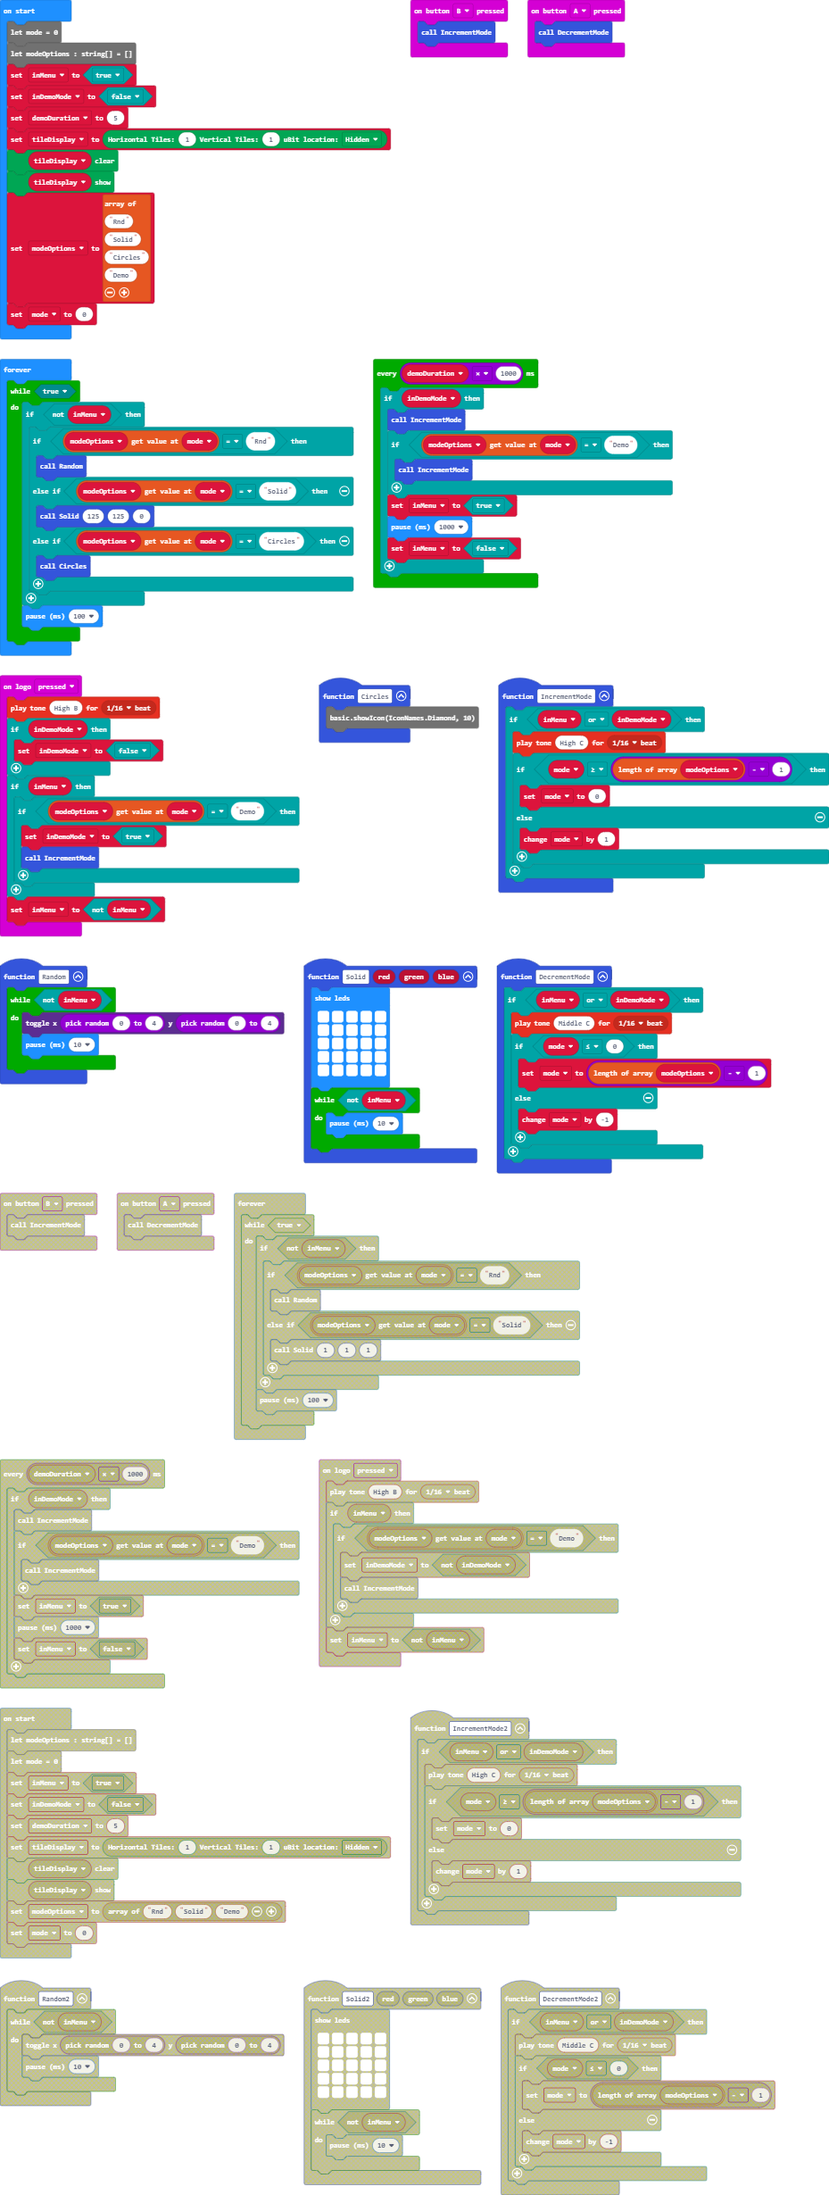
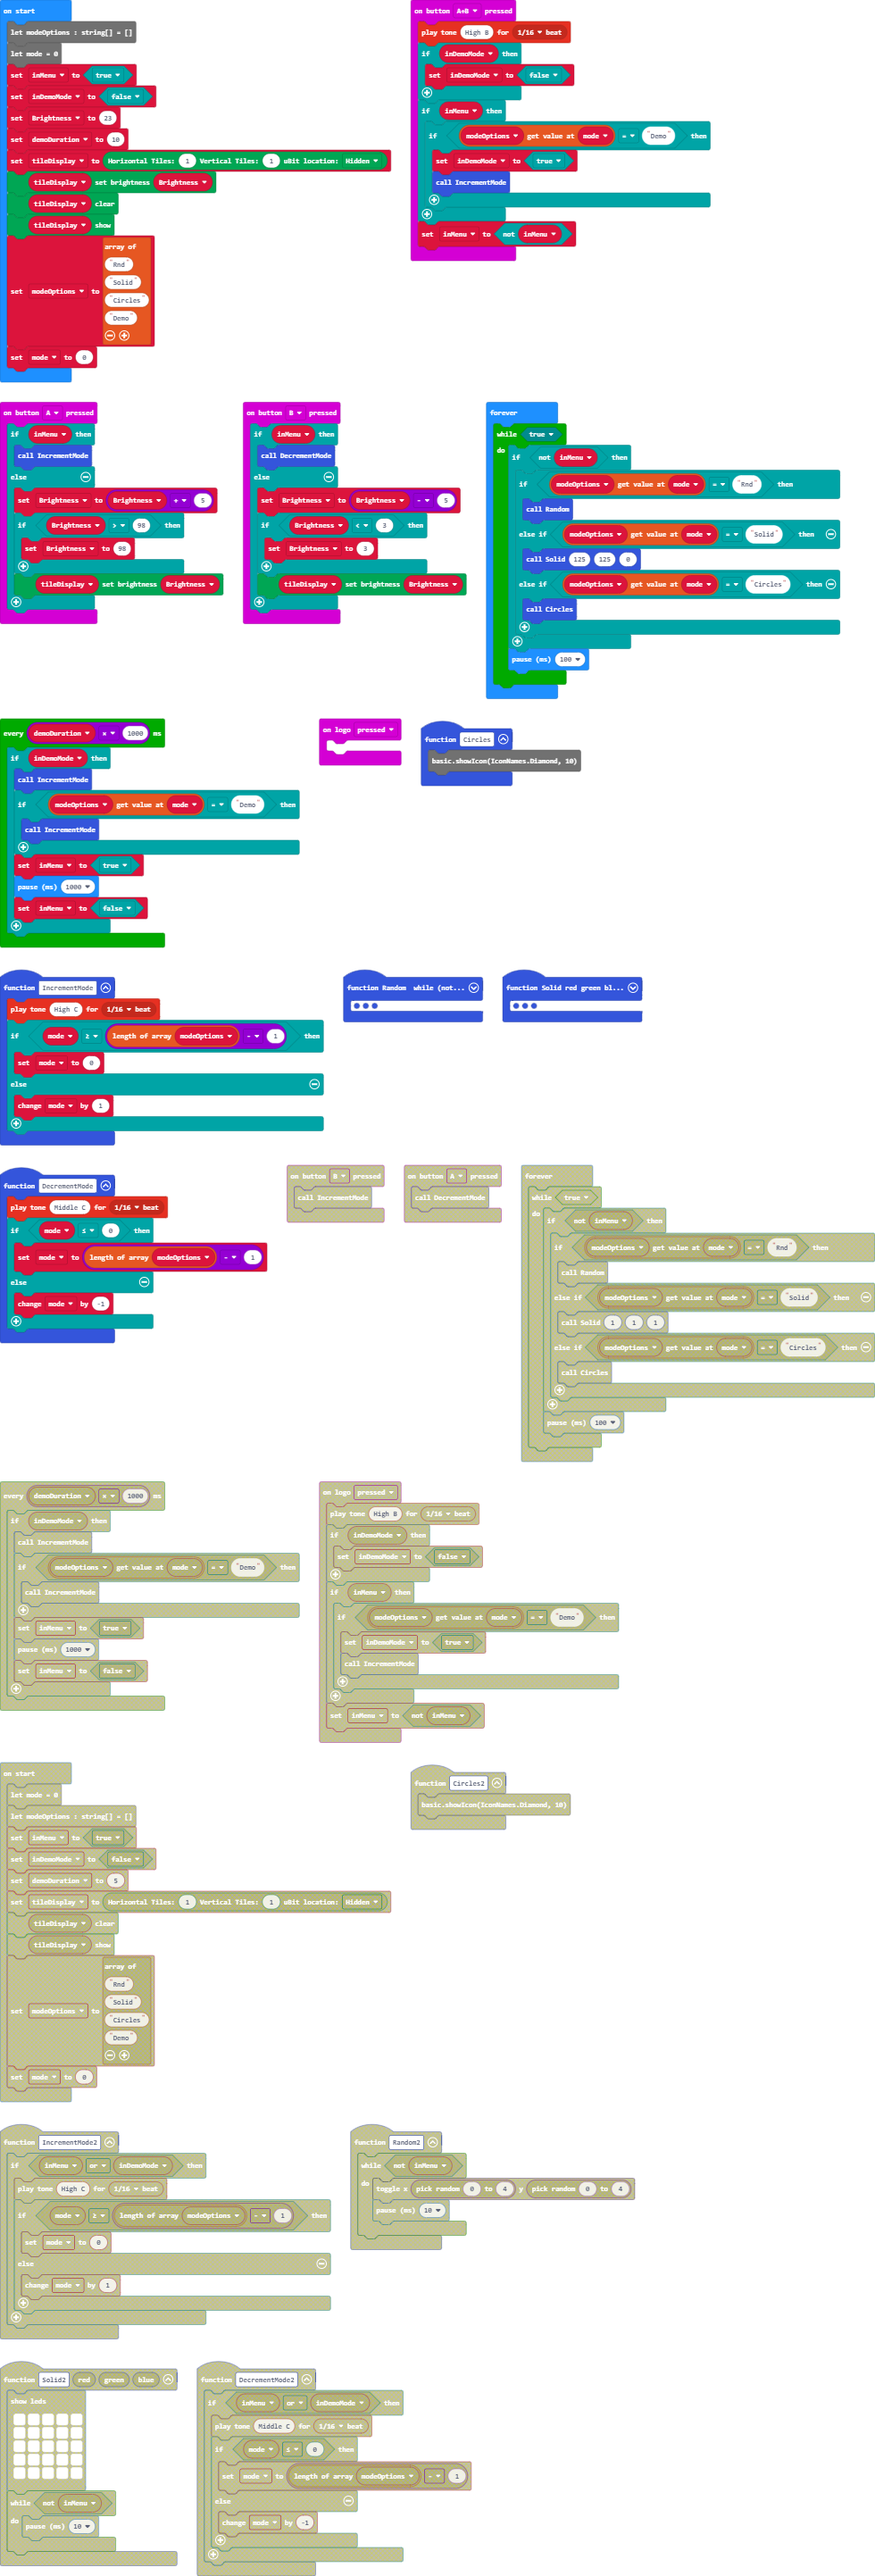
Added some fun random colours to the tile

diff --git a/main.ts b/main.ts
@@ -1,41 +1,34 @@
 function Random () {
     while (!(inMenu)) {
         led.toggle(randint(0, 4), randint(0, 4))
-        basic.pause(10)
+        tileDisplay.setMatrixColor(randint(0, 7), randint(0, 7), Kitronik_Zip_Tile.rgb(randint(5, 255), randint(5, 255), randint(5, 255)))
+        tileDisplay.show()
+        basic.pause(5)
     }
 }
 function Circles () {
     basic.showIcon(IconNames.Diamond, 10)
 }
 function IncrementMode () {
-    if (inMenu || inDemoMode) {
-        music.playTone(523, music.beat(BeatFraction.Sixteenth))
-        if (mode >= modeOptions.length - 1) {
-            mode = 0
-        } else {
-            mode += 1
-        }
+    music.playTone(523, music.beat(BeatFraction.Sixteenth))
+    if (mode >= modeOptions.length - 1) {
+        mode = 0
+    } else {
+        mode += 1
     }
 }
 input.onButtonPressed(Button.A, function () {
-    DecrementMode()
-})
-input.onButtonPressed(Button.B, function () {
-    IncrementMode()
-})
-function Solid (red: number, green: number, blue: number) {
-    basic.showLeds(`
-        # # # # #
-        # # # # #
-        # # # # #
-        # # # # #
-        # # # # #
-        `)
-    while (!(inMenu)) {
-        basic.pause(10)
+    if (inMenu) {
+        IncrementMode()
+    } else {
+        Brightness = Brightness + 5
+        if (Brightness > 98) {
+            Brightness = 98
+        }
+        tileDisplay.setBrightness(Brightness)
     }
-}
-input.onLogoEvent(TouchButtonEvent.Pressed, function () {
+})
+input.onButtonPressed(Button.AB, function () {
     music.playTone(988, music.beat(BeatFraction.Sixteenth))
     if (inDemoMode) {
         inDemoMode = false
@@ -48,24 +41,55 @@ input.onLogoEvent(TouchButtonEvent.Pressed, function () {
     }
     inMenu = !(inMenu)
 })
-function DecrementMode () {
-    if (inMenu || inDemoMode) {
-        music.playTone(262, music.beat(BeatFraction.Sixteenth))
-        if (mode <= 0) {
-            mode = modeOptions.length - 1
-        } else {
-            mode += -1
+input.onButtonPressed(Button.B, function () {
+    if (inMenu) {
+        DecrementMode()
+    } else {
+        Brightness = Brightness - 5
+        if (Brightness < 3) {
+            Brightness = 3
         }
+        tileDisplay.setBrightness(Brightness)
+    }
+})
+function Solid (red: number, green: number, blue: number) {
+    basic.showLeds(`
+        # # # # #
+        # # # # #
+        # # # # #
+        # # # # #
+        # # # # #
+        `)
+    while (!(inMenu)) {
+        split = randint(1, 360)
+        tileDisplay.showRainbow(randint(1, split), randint(split, 360))
+        basic.pause(200)
     }
 }
+input.onLogoEvent(TouchButtonEvent.Pressed, function () {
+	
+})
+function DecrementMode () {
+    music.playTone(262, music.beat(BeatFraction.Sixteenth))
+    if (mode <= 0) {
+        mode = modeOptions.length - 1
+    } else {
+        mode += -1
+    }
+}
+let split = 0
+let tileDisplay: Kitronik_Zip_Tile.ZIPTileDisplay = null
+let Brightness = 0
 let inDemoMode = false
 let inMenu = false
-let mode = 0
 let modeOptions : string[] = []
+let mode = 0
 inMenu = true
 inDemoMode = false
-let demoDuration = 5
-let tileDisplay = Kitronik_Zip_Tile.createZIPTileDisplay(1, 1, Kitronik_Zip_Tile.UBitLocations.Hidden)
+Brightness = 23
+let demoDuration = 10
+tileDisplay = Kitronik_Zip_Tile.createZIPTileDisplay(1, 1, Kitronik_Zip_Tile.UBitLocations.Hidden)
+tileDisplay.setBrightness(Brightness)
 tileDisplay.clear()
 tileDisplay.show()
 modeOptions = [

diff --git a/main.py b/main.py
@@ -1,9 +1,13 @@
 def Random():
     while not (inMenu):
         led.toggle(randint(0, 4), randint(0, 4))
-        basic.pause(10)
+        tileDisplay.set_matrix_color(randint(0, 7),
+            randint(0, 7),
+            Kitronik_Zip_Tile.rgb(randint(5, 255), randint(5, 255), randint(5, 255)))
+        tileDisplay.show()
+        basic.pause(200)
 def Circles():
-    basic.show_icon(IconNames.DIAMOND,10)
+    basic.show_icon(IconNames.DIAMOND, 10)
 def IncrementMode():
     global mode
     if inMenu or inDemoMode:
@@ -29,15 +33,18 @@ def Solid(red: number, green: number, blue: number):
                 # # # # #
                 # # # # #
     """)
+    tileDisplay.show_rainbow(1, 360)
     while not (inMenu):
-        basic.pause(10)
+        basic.pause(50)
 
 def on_logo_pressed():
     global inDemoMode, inMenu
     music.play_tone(988, music.beat(BeatFraction.SIXTEENTH))
+    if inDemoMode:
+        inDemoMode = False
     if inMenu:
         if modeOptions[mode] == "Demo":
-            inDemoMode = not (inDemoMode)
+            inDemoMode = True
             IncrementMode()
     inMenu = not (inMenu)
 input.on_logo_event(TouchButtonEvent.PRESSED, on_logo_pressed)
@@ -50,6 +57,7 @@ def DecrementMode():
             mode = len(modeOptions) - 1
         else:
             mode += -1
+tileDisplay: Kitronik_Zip_Tile.ZIPTileDisplay = None
 inDemoMode = False
 inMenu = False
 modeOptions: List[str] = []
@@ -58,9 +66,10 @@ inMenu = True
 inDemoMode = False
 demoDuration = 5
 tileDisplay = Kitronik_Zip_Tile.create_zip_tile_display(1, 1, Kitronik_Zip_Tile.UBitLocations.HIDDEN)
+tileDisplay.set_brightness(20)
 tileDisplay.clear()
 tileDisplay.show()
-modeOptions = ["Rnd", "Solid", "Demo"]
+modeOptions = ["Rnd", "Solid", "Circles", "Demo"]
 mode = 0
 
 def on_every_interval():
@@ -88,6 +97,6 @@ def on_forever():
             elif modeOptions[mode] == "Solid":
                 Solid(125, 125, 0)
             elif modeOptions[mode] == "Circles":
-                pass
+                Circles()
         basic.pause(100)
 basic.forever(on_forever)
